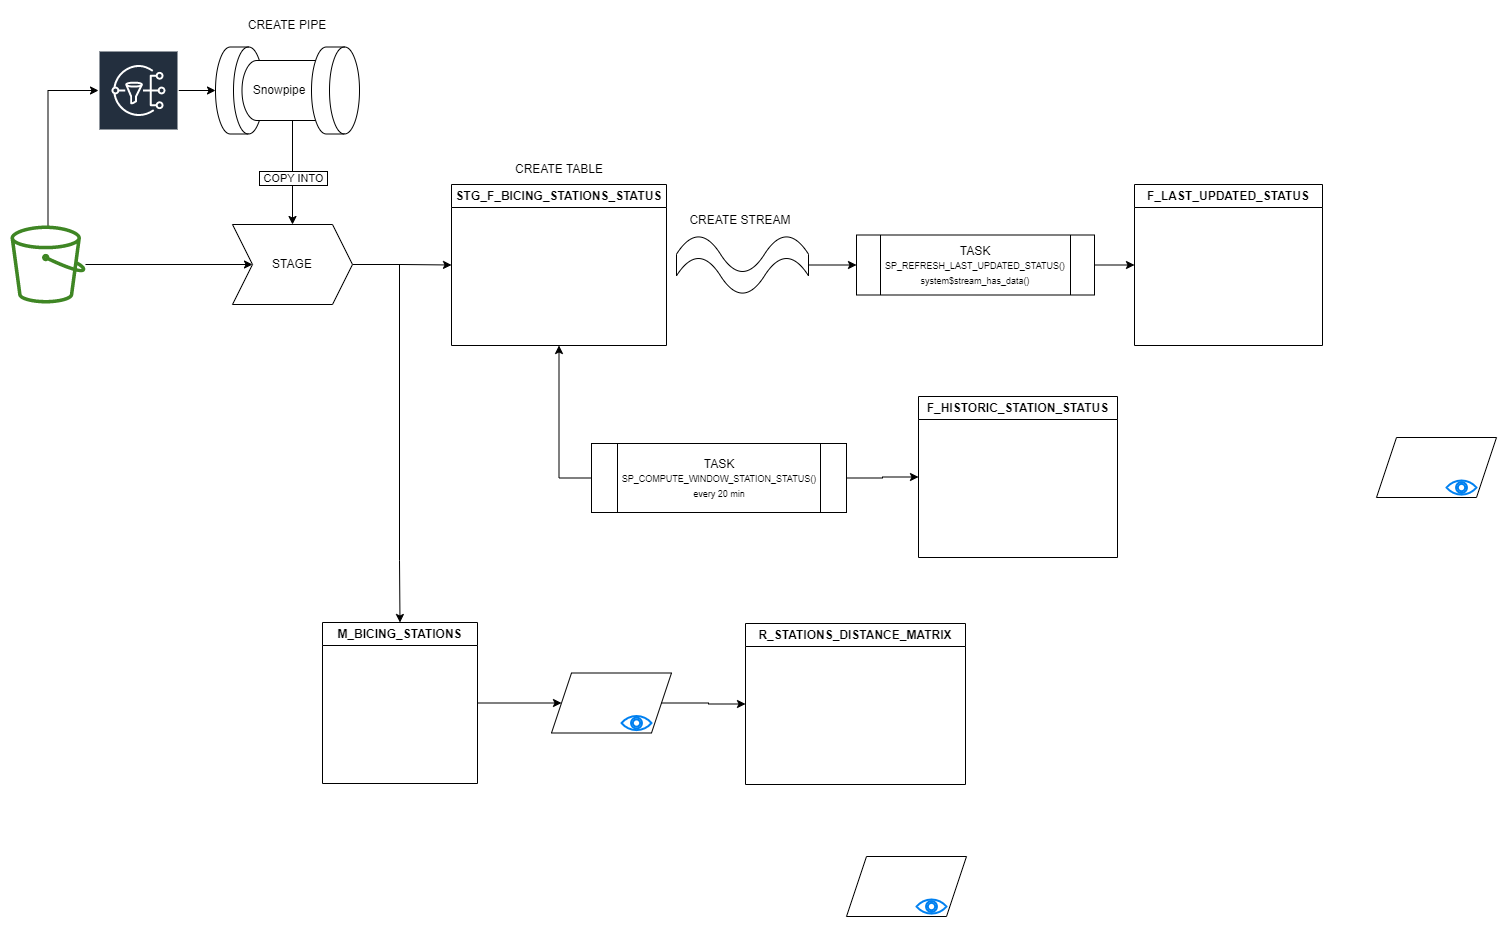
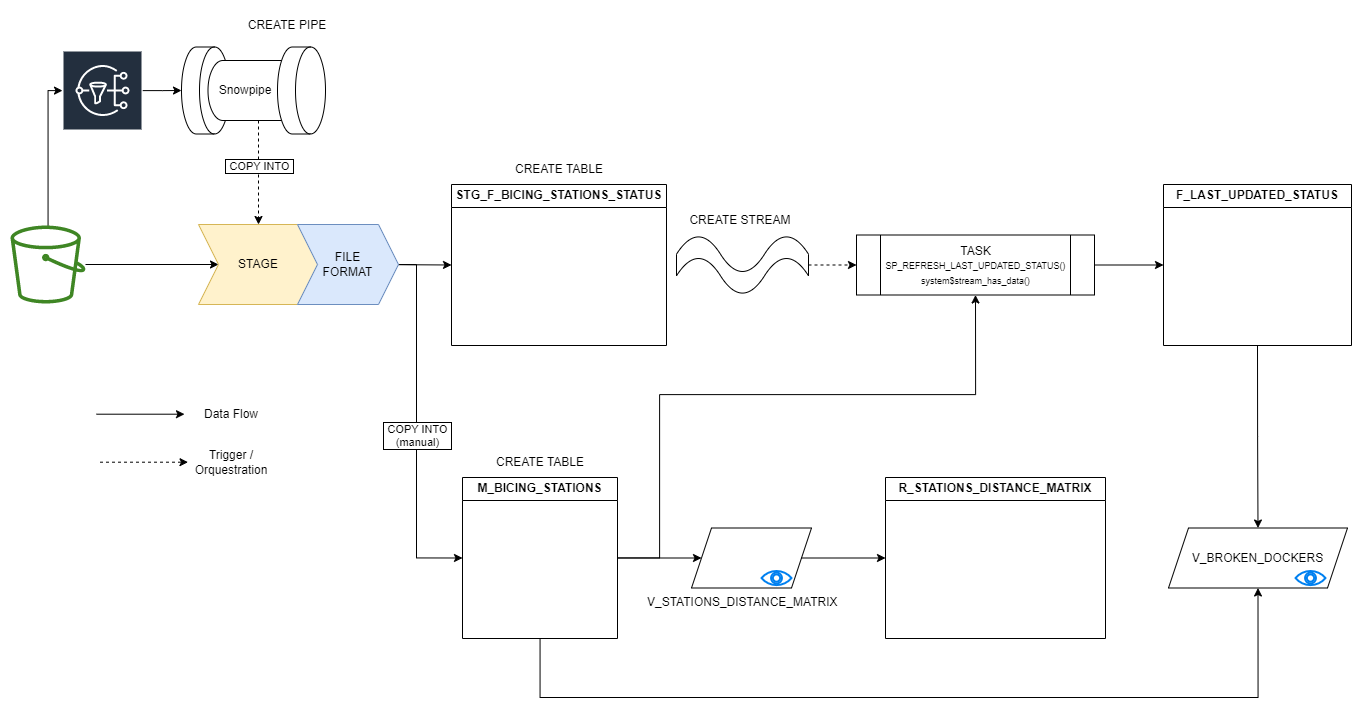
Finished snowflake detail diagram

diff --git a/README.md b/README.md
@@ -66,8 +66,6 @@ Now that we have a grasp of some theroy, let's start building our application to
 
 **Bonus**: here we have a detailed diagram that pictures all the objects we just created and their relations.
 
-[ ] Work in progress
-
 <p align="center">
 <img src="assets/snowflake-diagram.png"
         alt="A simplified map to visualize the relation of all the objects in the Snowflake account.">
